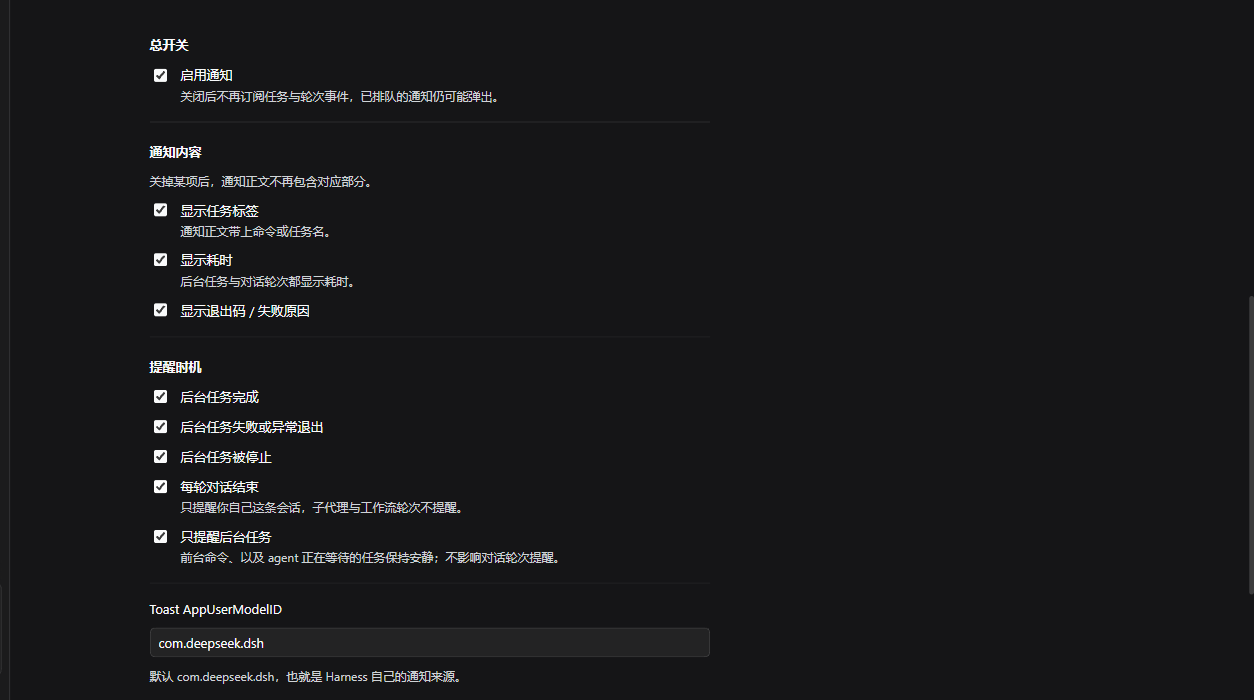
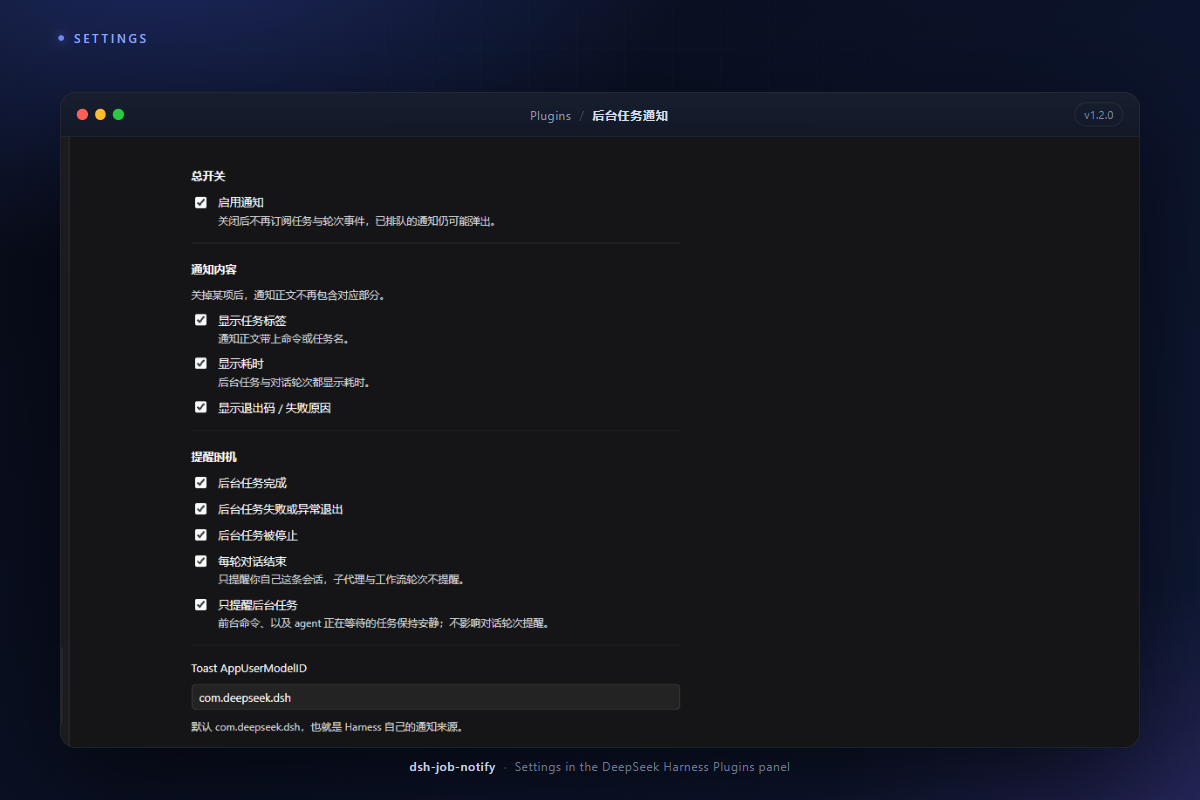
docs: replace screenshots with polished artwork

diff --git a/README.md b/README.md
@@ -52,7 +52,7 @@ DSH 把 shell 命令、子代理、workflow 都建模成后台任务，但不会
 
 ![对话结束通知](docs/toast-turn.png)
 
-<sub>标题是会话名，正文是本轮最后一条回答的纯文本节选（约 200 字），Markdown 语法会被剥掉。</sub>
+<sub>示意图：标题是会话名，正文是本轮最后一条回答的纯文本节选（约 200 字），Markdown 语法会被剥掉。</sub>
 
 - **标题**：会话标题，取自 Host 的 `sessionTitle` 服务；新会话还没生成标题时退回工作区目录名
 - **正文**：本轮最后一条 assistant 回答的节选；如果这一轮只调用了工具、没有文本回答，回退为「本轮已完成」
@@ -63,7 +63,7 @@ DSH 把 shell 命令、子代理、workflow 都建模成后台任务，但不会
 
 ![后台任务通知](docs/toast-job.png)
 
-<sub>标题按结果区分，正文是任务标签、退出码和耗时。</sub>
+<sub>示意图：标题按结果区分，正文是任务标签、退出码和耗时。</sub>
 
 标题有四种：
 

diff --git a/README.en.md b/README.en.md
@@ -27,6 +27,8 @@ Both can be switched off independently. Foreground commands, jobs an agent is st
 
 ![Turn notification](docs/toast-turn.png)
 
+<sub>Illustration: the title is the Session name; the body is an excerpt of the last answer.</sub>
+
 - **Title**: the Session title from the Host's `sessionTitle` service, falling back to the workspace folder name
 - **Body**: an excerpt (about 200 characters) of the last assistant answer, with Markdown syntax stripped
 - **Duration**: wall-clock time from `turn/start` to `turn/end`
@@ -35,6 +37,8 @@ Both can be switched off independently. Foreground commands, jobs an agent is st
 ### A background job settles
 
 ![Job notification](docs/toast-job.png)
+
+<sub>Illustration: the title reflects the outcome; the body carries the label, exit code, and elapsed time.</sub>
 
 | Title | Meaning |
 |---|---|
